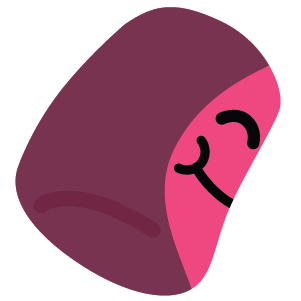
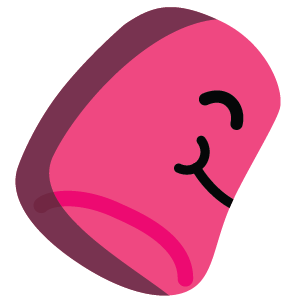
finished oldtownroad

diff --git a/2019/oldtownroad.html b/2019/oldtownroad.html
@@ -29,19 +29,19 @@
 
     lyrics = [
       "",
-      "yeah I'm gonna take myself to pappalardo|Im gonna design til I can't no more|I'm gonna take my team to pappalardo|We gonna build til we can't no more",
+      "yeah I'm gonna take myself to Pappalardo|Im gonna design til I can't no more|I'm gonna take my team to Pappalardo|We gonna build til we can't no more",
       "I got my backpack on my back|Checkin' g'cal, we're on track?|Send a gif on slack|We do design it aint no hack",
       "M'chining on the mill, ha|You can CAD of course|I been working madly|You been IGNITING like a torch, now",
       "Red2 keeps bees while|Blue3 loads luggage|Green5 belays|Silver8 rises",
-      "We do design it ain't no hack",
-      "M'chining on the mill, ha",
-      "you can CAD of course",
-      "I been working madly",
-      "You been IGNITING like a torch, now",
-      "Red keeps bees while blue loads luggage",
-      "Green belays, silver rises",
-      "Orange makes lipstick, pink's floatin",
-      "Purple pipes, yellow's surfin",
+      "Orange4 makes Lipstick|Pink's6 floatin|Purple7 pipes|Yellow's1 surfin'",
+      "Yeah I'm gonna take myself to Pappalardo|I'm gonna design til I can't no more|I'm gonna take my team to Pappalardo|We gonna build til we can't no more",
+      "Design fans|Near the dome|Here to see|All we've learned",
+      "Three ideas|Here to Kresge|Take us home|Designs to show",
+      "All our memories|Of team bonding|Lectures learning|Working through the yawning",
+      "Sky is sunny|Lab hours passing by|Finish up this testing|Safety glasses on my eyes",
+      "Friends and fam|Near the dome|Here to see|All we've learned",
+      "Three ideas|Here to Kresge|Take us home|Design to show",
+      "Take us home|Pappalardo#"
     ];
 
     currentVerse = 0;
@@ -74,7 +74,7 @@
           // largeee!
           if (words[i].indexOf('#') > 0) {
             word = word.substring(0, word.length - 1)
-            textStyle = "style=\"font-size:150px\"";
+            textStyle = "style=\"font-size:150px;margin-left: -15px;\"";
           }
 
           if (textStyle) {

diff --git a/2019/css/main.css b/2019/css/main.css
@@ -49,7 +49,7 @@ body {
 }
 
 .dot.mallow-orange {
-  background-image: url('../mallows_red.png');
+  background-image: url('../mallows_orange.png');
 }
 
 .dot.mallow-yellow {
